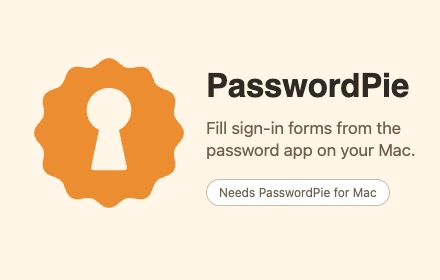
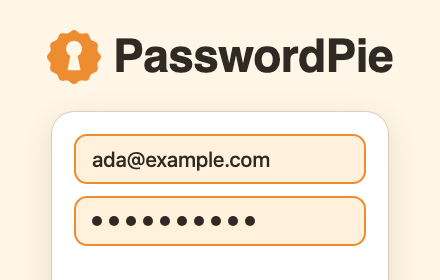
chore(extension): the store promo tile shows the name, the mark and a filled sign-in form (#69)

Changed region(s): [[0.0591, 0.0857, 0.9455, 0.8571], [0.1773, 0.8571, 0.8273, 0.8857], [0.2068, 0.7714, 0.5909, 0.8286]]

diff --git a/extension/store/promo-small.html b/extension/store/promo-small.html
@@ -1,18 +1,21 @@
 <!doctype html>
-<!-- Chrome Web Store small promo tile, 440x280. Render: node render-promo.mjs. Tokens from DESIGN.md. -->
+<!-- Chrome Web Store small promo tile, 440x280. Render: node render-promo.mjs. Tokens from DESIGN.md. The name, the mark and a filled sign-in form; no small print. -->
 <html><head><meta charset="utf-8"><style>
   html,body{margin:0;width:440px;height:280px;overflow:hidden}
   body{background:#FFF6E7;font-family:-apple-system,BlinkMacSystemFont,sans-serif;color:#302A24;position:relative}
-  .pie{position:absolute;left:34px;top:58px;width:150px;height:150px}
-  .text{position:absolute;left:206px;top:70px;width:212px}
-  .word{font-family:ui-rounded,-apple-system,sans-serif;font-weight:700;font-size:33px;letter-spacing:-.2px;line-height:1}
-  .tag{margin-top:14px;font-size:17px;line-height:1.3;color:#70604F}
-  .chip{display:inline-flex;align-items:center;gap:6px;margin-top:18px;padding:5px 12px;border:1px solid #C8BBAA;border-radius:999px;font-size:12px;color:#70604F;background:#fff}
+  .brand{position:absolute;left:0;right:0;top:30px;display:flex;justify-content:center;align-items:center;gap:12px}
+  .brand svg{width:54px;height:54px}
+  .word{font-family:ui-rounded,-apple-system,sans-serif;font-weight:700;font-size:46px;letter-spacing:-.6px;line-height:1}
+  .card{position:absolute;left:52px;top:112px;width:336px;height:220px;box-sizing:border-box;padding:22px 22px 0;background:#fff;border-radius:22px;box-shadow:0 10px 30px rgba(112,74,30,.16),0 0 0 1px rgba(200,187,170,.55)}
+  .field{display:flex;align-items:center;height:50px;box-sizing:border-box;padding:0 10px 0 16px;border:2px solid #EE8C32;border-radius:13px;background:#FFF1DC;font-size:21px;font-weight:500}
+  .field+.field{margin-top:12px}
+  .field span{flex:1}
+  .dots{display:flex;gap:7px}.dots i{width:10px;height:10px;border-radius:50%;background:#302A24}
+  .field svg{width:28px;height:28px}
 </style></head><body>
-<svg class="pie" viewBox="1.9 1.9 20.2 20.2"><path fill="#EE8C32" fill-rule="evenodd" d="M12.0000 1.9000 L12.5236 2.0092 L13.0196 2.2989 L13.4776 2.6708 L13.9119 3.0055 L14.3553 3.2101 L14.8416 3.2546 L15.3850 3.1819 L15.9675 3.0888 L16.5420 3.0859 L17.0500 3.2531 L17.4488 3.6095 L17.7336 4.1084 L17.9442 4.6595 L18.1530 5.1664 L18.4347 5.5653 L18.8336 5.8470 L19.3405 6.0558 L19.8916 6.2664 L20.3905 6.5512 L20.7469 6.9500 L20.9141 7.4580 L20.9112 8.0325 L20.8181 8.6150 L20.7454 9.1584 L20.7899 9.6447 L20.9945 10.0881 L21.3292 10.5224 L21.7011 10.9804 L21.9908 11.4764 L22.1000 12.0000 L21.9908 12.5236 L21.7011 13.0196 L21.3292 13.4776 L20.9945 13.9119 L20.7899 14.3553 L20.7454 14.8416 L20.8181 15.3850 L20.9112 15.9675 L20.9141 16.5420 L20.7469 17.0500 L20.3905 17.4488 L19.8916 17.7336 L19.3405 17.9442 L18.8336 18.1530 L18.4347 18.4347 L18.1530 18.8336 L17.9442 19.3405 L17.7336 19.8916 L17.4488 20.3905 L17.0500 20.7469 L16.5420 20.9141 L15.9675 20.9112 L15.3850 20.8181 L14.8416 20.7454 L14.3553 20.7899 L13.9119 20.9945 L13.4776 21.3292 L13.0196 21.7011 L12.5236 21.9908 L12.0000 22.1000 L11.4764 21.9908 L10.9804 21.7011 L10.5224 21.3292 L10.0881 20.9945 L9.6447 20.7899 L9.1584 20.7454 L8.6150 20.8181 L8.0325 20.9112 L7.4580 20.9141 L6.9500 20.7469 L6.5512 20.3905 L6.2664 19.8916 L6.0558 19.3405 L5.8470 18.8336 L5.5653 18.4347 L5.1664 18.1530 L4.6595 17.9442 L4.1084 17.7336 L3.6095 17.4488 L3.2531 17.0500 L3.0859 16.5420 L3.0888 15.9675 L3.1819 15.3850 L3.2546 14.8416 L3.2101 14.3553 L3.0055 13.9119 L2.6708 13.4776 L2.2989 13.0196 L2.0092 12.5236 L1.9000 12.0000 L2.0092 11.4764 L2.2989 10.9804 L2.6708 10.5224 L3.0055 10.0881 L3.2101 9.6447 L3.2546 9.1584 L3.1819 8.6150 L3.0888 8.0325 L3.0859 7.4580 L3.2531 6.9500 L3.6095 6.5512 L4.1084 6.2664 L4.6595 6.0558 L5.1664 5.8470 L5.5653 5.5653 L5.8470 5.1664 L6.0558 4.6595 L6.2664 4.1084 L6.5512 3.6095 L6.9500 3.2531 L7.4580 3.0859 L8.0325 3.0888 L8.6150 3.1819 L9.1584 3.2546 L9.6447 3.2101 L10.0881 3.0055 L10.5224 2.6708 L10.9804 2.2989 L11.4764 2.0092 Z M10.65 11.6 A3 3 0 1 1 13.35 11.6 L14.4 16.6 Q14.5 17 14 17 H10 Q9.5 17 9.6 16.6 Z"/></svg>
-<div class="text">
-  <div class="word">PasswordPie</div>
-  <div class="tag">Fill sign-in forms from the password app on your Mac.</div>
-  <div class="chip">Needs PasswordPie for Mac</div>
+<div class="brand"><svg viewBox="1.9 1.9 20.2 20.2"><path fill="#EE8C32" fill-rule="evenodd" d="M12.0000 1.9000 L12.5236 2.0092 L13.0196 2.2989 L13.4776 2.6708 L13.9119 3.0055 L14.3553 3.2101 L14.8416 3.2546 L15.3850 3.1819 L15.9675 3.0888 L16.5420 3.0859 L17.0500 3.2531 L17.4488 3.6095 L17.7336 4.1084 L17.9442 4.6595 L18.1530 5.1664 L18.4347 5.5653 L18.8336 5.8470 L19.3405 6.0558 L19.8916 6.2664 L20.3905 6.5512 L20.7469 6.9500 L20.9141 7.4580 L20.9112 8.0325 L20.8181 8.6150 L20.7454 9.1584 L20.7899 9.6447 L20.9945 10.0881 L21.3292 10.5224 L21.7011 10.9804 L21.9908 11.4764 L22.1000 12.0000 L21.9908 12.5236 L21.7011 13.0196 L21.3292 13.4776 L20.9945 13.9119 L20.7899 14.3553 L20.7454 14.8416 L20.8181 15.3850 L20.9112 15.9675 L20.9141 16.5420 L20.7469 17.0500 L20.3905 17.4488 L19.8916 17.7336 L19.3405 17.9442 L18.8336 18.1530 L18.4347 18.4347 L18.1530 18.8336 L17.9442 19.3405 L17.7336 19.8916 L17.4488 20.3905 L17.0500 20.7469 L16.5420 20.9141 L15.9675 20.9112 L15.3850 20.8181 L14.8416 20.7454 L14.3553 20.7899 L13.9119 20.9945 L13.4776 21.3292 L13.0196 21.7011 L12.5236 21.9908 L12.0000 22.1000 L11.4764 21.9908 L10.9804 21.7011 L10.5224 21.3292 L10.0881 20.9945 L9.6447 20.7899 L9.1584 20.7454 L8.6150 20.8181 L8.0325 20.9112 L7.4580 20.9141 L6.9500 20.7469 L6.5512 20.3905 L6.2664 19.8916 L6.0558 19.3405 L5.8470 18.8336 L5.5653 18.4347 L5.1664 18.1530 L4.6595 17.9442 L4.1084 17.7336 L3.6095 17.4488 L3.2531 17.0500 L3.0859 16.5420 L3.0888 15.9675 L3.1819 15.3850 L3.2546 14.8416 L3.2101 14.3553 L3.0055 13.9119 L2.6708 13.4776 L2.2989 13.0196 L2.0092 12.5236 L1.9000 12.0000 L2.0092 11.4764 L2.2989 10.9804 L2.6708 10.5224 L3.0055 10.0881 L3.2101 9.6447 L3.2546 9.1584 L3.1819 8.6150 L3.0888 8.0325 L3.0859 7.4580 L3.2531 6.9500 L3.6095 6.5512 L4.1084 6.2664 L4.6595 6.0558 L5.1664 5.8470 L5.5653 5.5653 L5.8470 5.1664 L6.0558 4.6595 L6.2664 4.1084 L6.5512 3.6095 L6.9500 3.2531 L7.4580 3.0859 L8.0325 3.0888 L8.6150 3.1819 L9.1584 3.2546 L9.6447 3.2101 L10.0881 3.0055 L10.5224 2.6708 L10.9804 2.2989 L11.4764 2.0092 Z M10.65 11.6 A3 3 0 1 1 13.35 11.6 L14.4 16.6 Q14.5 17 14 17 H10 Q9.5 17 9.6 16.6 Z"/></svg><div class="word">PasswordPie</div></div>
+<div class="card">
+  <div class="field"><span>ada@example.com</span></div>
+  <div class="field"><span class="dots"><i></i><i></i><i></i><i></i><i></i><i></i><i></i><i></i><i></i><i></i></span></div>
 </div>
 </body></html>
